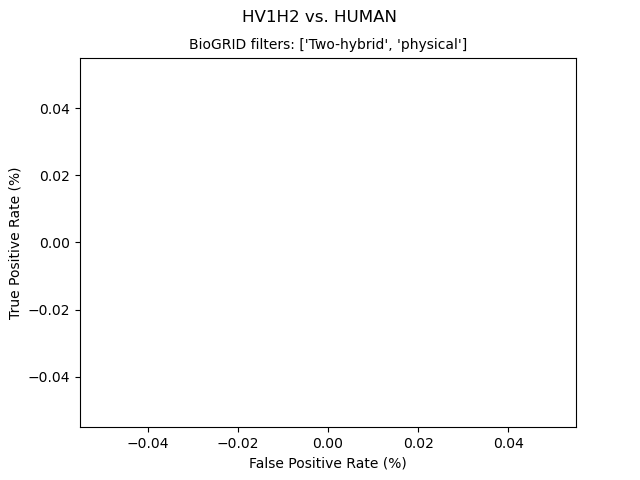
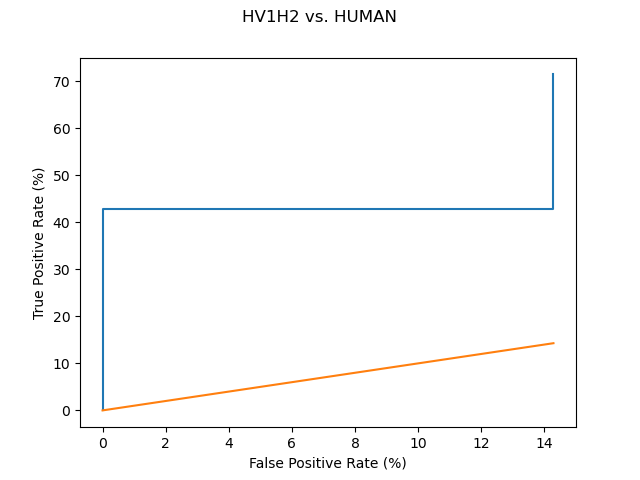
Change test case

diff --git a/springsuite/spring_roc.py b/springsuite/spring_roc.py
@@ -2,6 +2,7 @@
 import argparse
 import math
 import random
+from os.path import isfile
 from datetime import datetime
 
 from matplotlib import pyplot as plt
@@ -208,7 +209,7 @@ def main(args):
 
     # get subcellular locations from UniProt export
     locations = dict()
-    if args.locations:
+    if isfile(args.locations):
         with open(args.locations) as locFile:
             for line in locFile:
                 searchKey = "SUBCELLULAR LOCATION"
@@ -225,10 +226,10 @@ def main(args):
     # estimate background noise
     print("Estimating background noise...")
     negative = set()
-    filterAList = list(filterA)
-    filterBList = list(filterB)
+    filterAList = sorted(list(filterA))
+    filterBList = sorted(list(filterB))
     negativeRequired = positiveCount
-    random.seed(datetime.now())
+    random.seed(0)
     totalAttempts = int(len(filterAList) * len(filterBList) / 2)
     while totalAttempts > 0:
         totalAttempts = totalAttempts - 1
@@ -268,9 +269,9 @@ if __name__ == "__main__":
     parser.add_argument('-i', '--input', help='Input prediction file.', required=True)
     parser.add_argument('-b', '--biogrid', help='BioGRID interaction database file', required=True)
     parser.add_argument('-l', '--locations', help='UniProt export table with subcellular locations', required=False)
-    parser.add_argument('-e', '--experiment', help='Type (physical/genetic)', required=False)
-    parser.add_argument('-t', '--throughput', help='Throughput (low/high)', required=False)
-    parser.add_argument('-m', '--method', help='Method e.g. Two-hybrid', required=False)
+    parser.add_argument('-e', '--experiment', help='Type (physical/genetic)', default="", required=False)
+    parser.add_argument('-t', '--throughput', help='Throughput (low/high)', default="", required=False)
+    parser.add_argument('-m', '--method', help='Method e.g. Two-hybrid', default="", required=False)
     parser.add_argument('-o', '--output', help='Output (png)', required=True)
     args = parser.parse_args()
     main(args)
